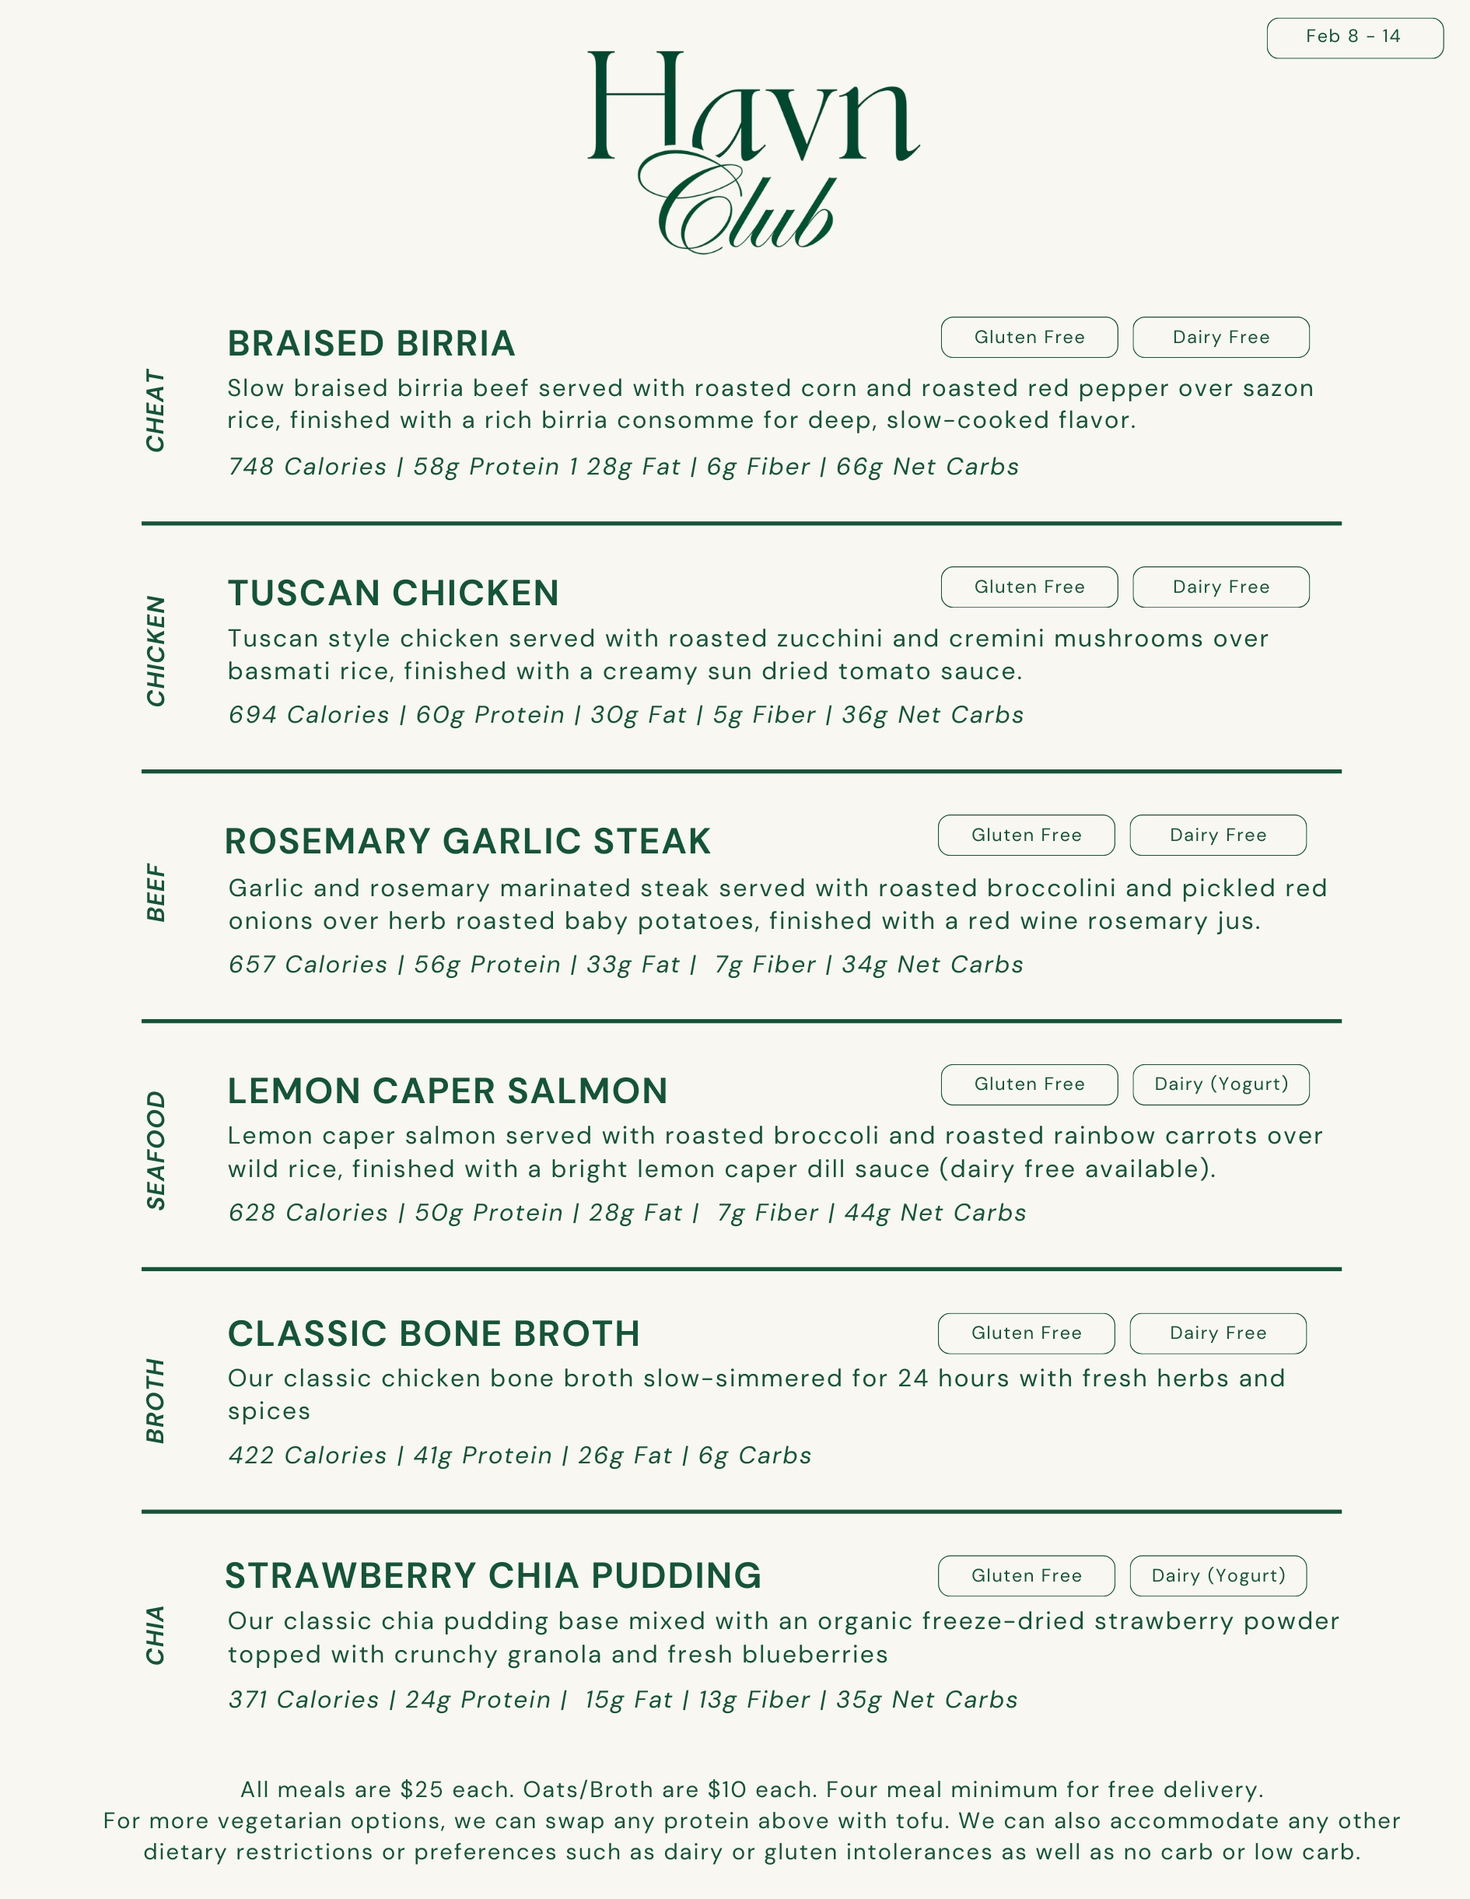
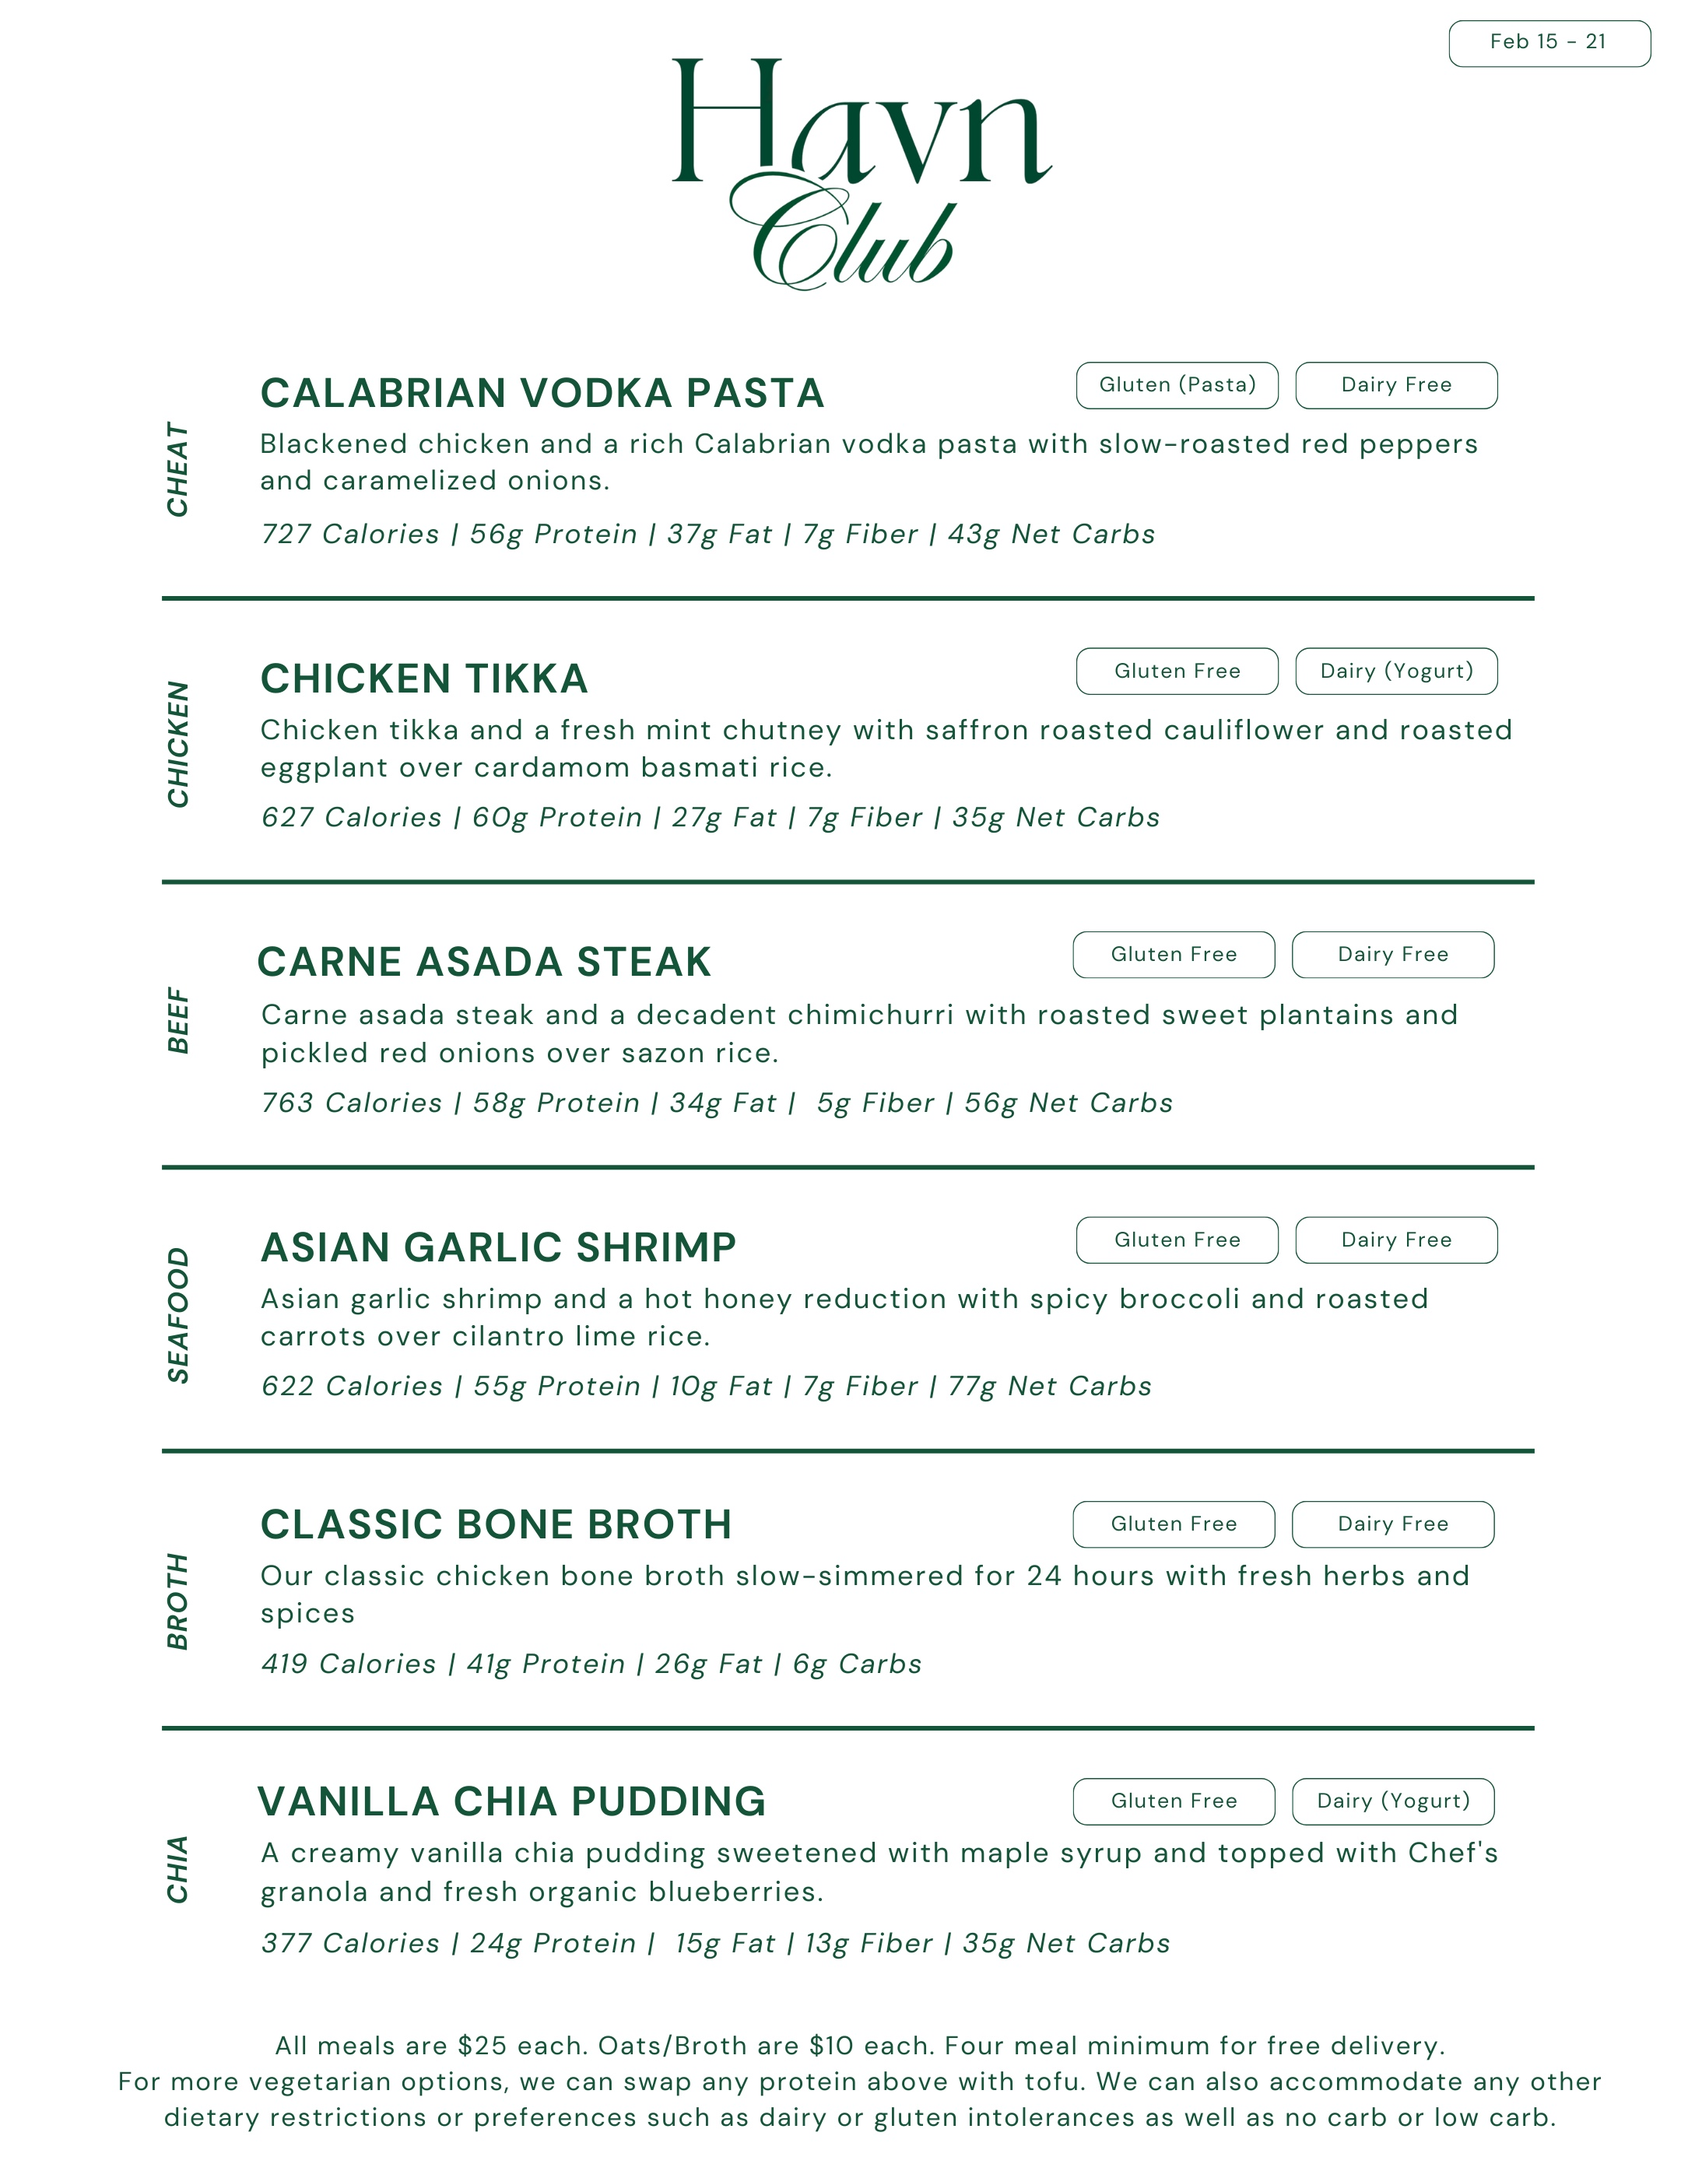
Update menu for Feb 15-21 week
New dishes:
- Cheat: Calabrian Vodka Pasta (contains gluten)
- Chicken: Chicken Tikka (contains dairy)
- Beef: Carne Asada Steak
- Seafood: Asian Garlic Shrimp
- Broth: Chicken Bone Broth
- Chia: Vanilla Chia Pudding

Updated link preview image for iMessage/social sharing.

diff --git a/index.html b/index.html
@@ -9,8 +9,8 @@
   <meta property="og:title" content="Havn Club - Weekly Menu">
   <meta property="og:description" content="Premium meal delivery service. Order by Thursday 4pm for Sunday delivery.">
   <meta property="og:image" content="https://menu.havnclub.com/menu-preview.jpg">
-  <meta property="og:image:width" content="1890">
-  <meta property="og:image:height" content="2441">
+  <meta property="og:image:width" content="2160">
+  <meta property="og:image:height" content="2790">
   <meta property="og:url" content="https://menu.havnclub.com">
   <meta property="og:type" content="website">
 
@@ -1062,7 +1062,7 @@
             </div>
             <div class="header-info">
               <span class="header-name">Havn Club</span>
-              <span class="header-meta">Feb 8 – 14</span>
+              <span class="header-meta">Feb 15 – 21</span>
             </div>
           </div>
           <button class="help-btn" id="helpBtn">?</button>
@@ -1091,13 +1091,13 @@
           <div class="menu-item" data-key="cheat">
             <div class="item-cat"><span>Cheat</span></div>
             <div class="item-info">
-              <h3 class="item-name">Braised Birria</h3>
-              <p class="item-desc">Braised Birria Beef with Birria Consomme and Roasted Corn and Roasted Red Pepper over Sazon Rice</p>
+              <h3 class="item-name">Calabrian Vodka Pasta</h3>
+              <p class="item-desc">Blackened Chicken and Calabrian Vodka Pasta with Slow-Roasted Red Peppers and Caramelized Onions</p>
               <div class="item-bottom">
                 <div class="item-macros">
-                  <span>748 cal</span>
+                  <span>727 cal</span>
                   <span class="dot"></span>
-                  <span>58g protein</span>
+                  <span>56g protein</span>
                 </div>
                 <div class="stepper">
                   <button class="stepper-btn minus" disabled>−</button>
@@ -1111,13 +1111,13 @@
           <div class="menu-item" data-key="chicken">
             <div class="item-cat"><span>Chicken</span></div>
             <div class="item-info">
-              <h3 class="item-name">Tuscan Chicken</h3>
-              <p class="item-desc">Tuscan Chicken with Creamy Sun-Dried Tomato Sauce and Roasted Zucchini and Roasted Cremini Mushrooms over Basmati Rice</p>
+              <h3 class="item-name">Chicken Tikka</h3>
+              <p class="item-desc">Chicken Tikka and Mint Chutney with Saffron Roasted Cauliflower and Roasted Eggplant over Cardamom Basmati Rice</p>
               <div class="item-bottom">
                 <div class="item-macros">
-                  <span>694 cal</span>
+                  <span>754 cal</span>
                   <span class="dot"></span>
-                  <span>60g protein</span>
+                  <span>56g protein</span>
                 </div>
                 <div class="stepper">
                   <button class="stepper-btn minus" disabled>−</button>
@@ -1131,13 +1131,13 @@
           <div class="menu-item" data-key="beef">
             <div class="item-cat"><span>Beef</span></div>
             <div class="item-info">
-              <h3 class="item-name">Rosemary Garlic Steak</h3>
-              <p class="item-desc">Rosemary Garlic Steak with Red Wine Rosemary Jus and Roasted Broccolini and Pickled Red Onions over Herb Roasted Baby Potatoes</p>
+              <h3 class="item-name">Carne Asada Steak</h3>
+              <p class="item-desc">Carne Asada Steak and Chimichurri with Roasted Sweet Plantains and Pickled Red Onions over Sazon Rice</p>
               <div class="item-bottom">
                 <div class="item-macros">
-                  <span>657 cal</span>
+                  <span>761 cal</span>
                   <span class="dot"></span>
-                  <span>56g protein</span>
+                  <span>58g protein</span>
                 </div>
                 <div class="stepper">
                   <button class="stepper-btn minus" disabled>−</button>
@@ -1151,13 +1151,13 @@
           <div class="menu-item" data-key="seafood">
             <div class="item-cat"><span>Seafood</span></div>
             <div class="item-info">
-              <h3 class="item-name">Lemon Caper Salmon</h3>
-              <p class="item-desc">Lemon Caper Salmon with Lemon-Caper Dill Sauce and Roasted Broccoli and Roasted Rainbow Carrots over Wild Rice</p>
+              <h3 class="item-name">Asian Garlic Shrimp</h3>
+              <p class="item-desc">Asian Garlic Shrimp and Hot Honey Reduction with Spicy Broccoli and Roasted Carrots over Cilantro Lime Rice</p>
               <div class="item-bottom">
                 <div class="item-macros">
-                  <span>628 cal</span>
+                  <span>613 cal</span>
                   <span class="dot"></span>
-                  <span>50g protein</span>
+                  <span>55g protein</span>
                 </div>
                 <div class="stepper">
                   <button class="stepper-btn minus" disabled>−</button>
@@ -1178,11 +1178,11 @@
           <div class="menu-item" data-key="broth">
             <div class="item-cat"><span>Broth</span></div>
             <div class="item-info">
-              <h3 class="item-name">Classic Bone Broth</h3>
+              <h3 class="item-name">Chicken Bone Broth</h3>
               <p class="item-desc">Our classic chicken bone broth slow-simmered for 24 hours with fresh herbs and spices</p>
               <div class="item-bottom">
                 <div class="item-macros">
-                  <span>422 cal</span>
+                  <span>419 cal</span>
                   <span class="dot"></span>
                   <span>41g protein</span>
                 </div>
@@ -1198,11 +1198,11 @@
           <div class="menu-item" data-key="chia">
             <div class="item-cat"><span>Chia</span></div>
             <div class="item-info">
-              <h3 class="item-name">Strawberry Chia Pudding</h3>
-              <p class="item-desc">Strawberry chia pudding with organic freeze-dried strawberry powder, topped with crunchy granola and fresh blueberries</p>
+              <h3 class="item-name">Vanilla Chia Pudding</h3>
+              <p class="item-desc">Vanilla chia pudding sweetened with maple syrup and topped with Chef's granola and fresh organic blueberries</p>
               <div class="item-bottom">
                 <div class="item-macros">
-                  <span>371 cal</span>
+                  <span>358 cal</span>
                   <span class="dot"></span>
                   <span>24g protein</span>
                 </div>
@@ -1366,50 +1366,50 @@
     // Data - Full descriptions for detail sheet
     const dishes = {
       cheat: {
-        name: 'Braised Birria',
+        name: 'Calabrian Vodka Pasta',
         category: 'cheat',
-        desc: 'Slow braised birria beef served with roasted corn and roasted red pepper over sazon rice, finished with a rich birria consomme for deep, slow-cooked flavor.',
-        macros: '748 cal · 58g protein · 28g fat · 6g fiber · 66g carbs',
-        tags: [{ text: 'Gluten Free', safe: true }, { text: 'Dairy Free', safe: true }],
+        desc: 'Blackened chicken and a rich Calabrian vodka pasta with slow-roasted red peppers and caramelized onions.',
+        macros: '727 cal · 56g protein · 37g fat · 7g fiber · 43g carbs',
+        tags: [{ text: 'Gluten (Pasta)', safe: false }, { text: 'Dairy Free', safe: true }],
         price: 25
       },
       chicken: {
-        name: 'Tuscan Chicken',
+        name: 'Chicken Tikka',
         category: 'chicken',
-        desc: 'Tuscan style chicken served with roasted zucchini and roasted cremini mushrooms over basmati rice, finished with a creamy sun dried tomato sauce (dairy free available).',
-        macros: '694 cal · 60g protein · 30g fat · 5g fiber · 46g carbs',
-        tags: [{ text: 'Gluten Free', safe: true }, { text: 'Dairy Free', safe: true }],
+        desc: 'Chicken tikka and a fresh mint chutney with saffron roasted cauliflower and roasted eggplant over cardamom basmati rice.',
+        macros: '754 cal · 56g protein · 37g fat · 11g fiber · 50g carbs',
+        tags: [{ text: 'Gluten Free', safe: true }, { text: 'Dairy (Yogurt)', safe: false }],
         price: 25
       },
       beef: {
-        name: 'Rosemary Garlic Steak',
+        name: 'Carne Asada Steak',
         category: 'beef',
-        desc: 'Garlic and rosemary marinated steak served with roasted broccolini and pickled red onions over herb roasted baby potatoes, finished with a red wine rosemary jus.',
-        macros: '657 cal · 56g protein · 33g fat · 7g fiber · 34g carbs',
+        desc: 'Carne asada steak and a decadent chimichurri with roasted sweet plantains and pickled red onions over sazon rice.',
+        macros: '761 cal · 58g protein · 34g fat · 5g fiber · 56g carbs',
         tags: [{ text: 'Gluten Free', safe: true }, { text: 'Dairy Free', safe: true }],
         price: 25
       },
       seafood: {
-        name: 'Lemon Caper Salmon',
+        name: 'Asian Garlic Shrimp',
         category: 'seafood',
-        desc: 'Pan seared salmon served with roasted broccoli and roasted rainbow carrots over wild rice, finished with a bright lemon caper dill sauce.',
-        macros: '628 cal · 50g protein · 28g fat · 7g fiber · 44g carbs',
-        tags: [{ text: 'Gluten Free', safe: true }, { text: 'Dairy (Yogurt)', safe: false }],
+        desc: 'Asian garlic shrimp and a hot honey reduction with spicy broccoli and roasted carrots over cilantro lime rice.',
+        macros: '613 cal · 55g protein · 15g fat · 9g fiber · 64g carbs',
+        tags: [{ text: 'Gluten Free', safe: true }, { text: 'Dairy Free', safe: true }],
         price: 25
       },
       broth: {
-        name: 'Classic Bone Broth',
+        name: 'Chicken Bone Broth',
         category: 'broth',
         desc: 'Our classic chicken bone broth slow-simmered for 24 hours with fresh herbs and spices.',
-        macros: '422 cal · 41g protein · 26g fat · 6g carbs',
+        macros: '419 cal · 41g protein · 26g fat · 6g carbs',
         tags: [{ text: 'Gluten Free', safe: true }, { text: 'Dairy Free', safe: true }],
         price: 10
       },
       chia: {
-        name: 'Strawberry Chia Pudding',
+        name: 'Vanilla Chia Pudding',
         category: 'chia',
-        desc: 'Our classic chia pudding base mixed with an organic freeze-dried strawberry powder topped with crunchy granola and fresh blueberries.',
-        macros: '371 cal · 24g protein · 15g fat · 13g fiber · 35g carbs',
+        desc: 'A creamy vanilla chia pudding sweetened with maple syrup and topped with Chef\'s granola and fresh organic blueberries.',
+        macros: '358 cal · 24g protein · 12g fat · 13g fiber · 38g carbs',
         tags: [{ text: 'Gluten Free', safe: true }, { text: 'Dairy (Yogurt)', safe: false }],
         price: 10
       }
